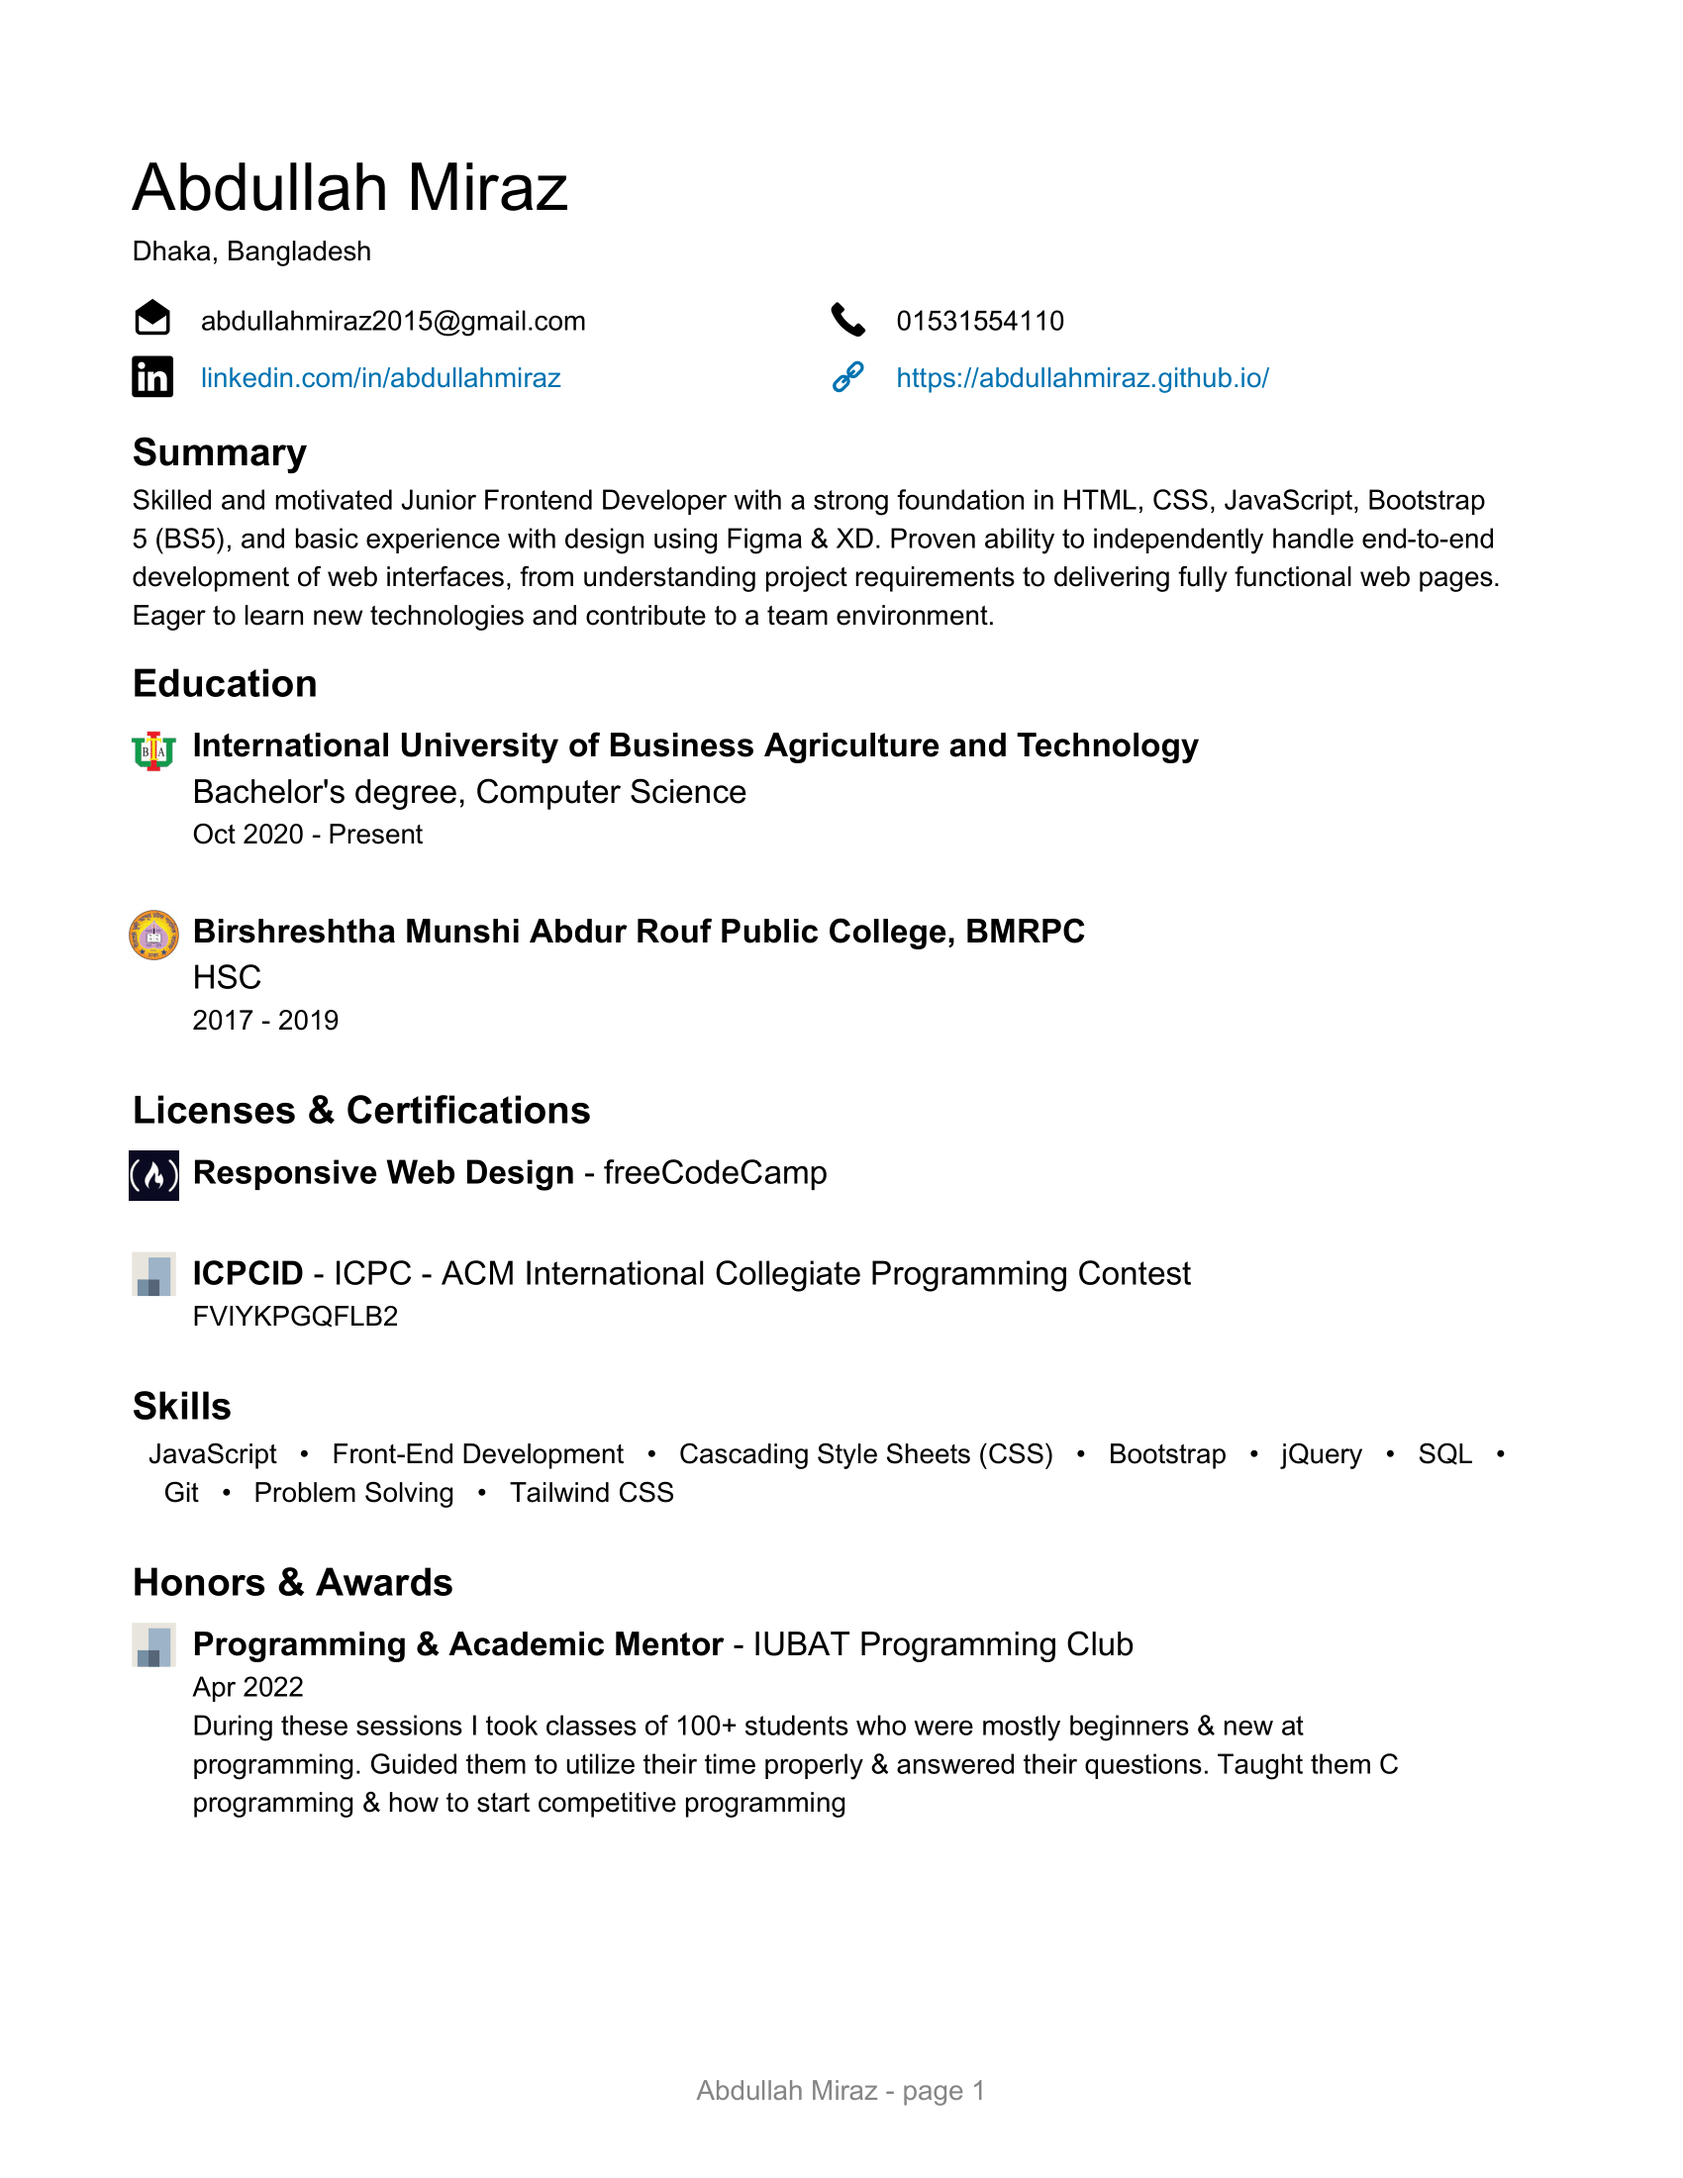
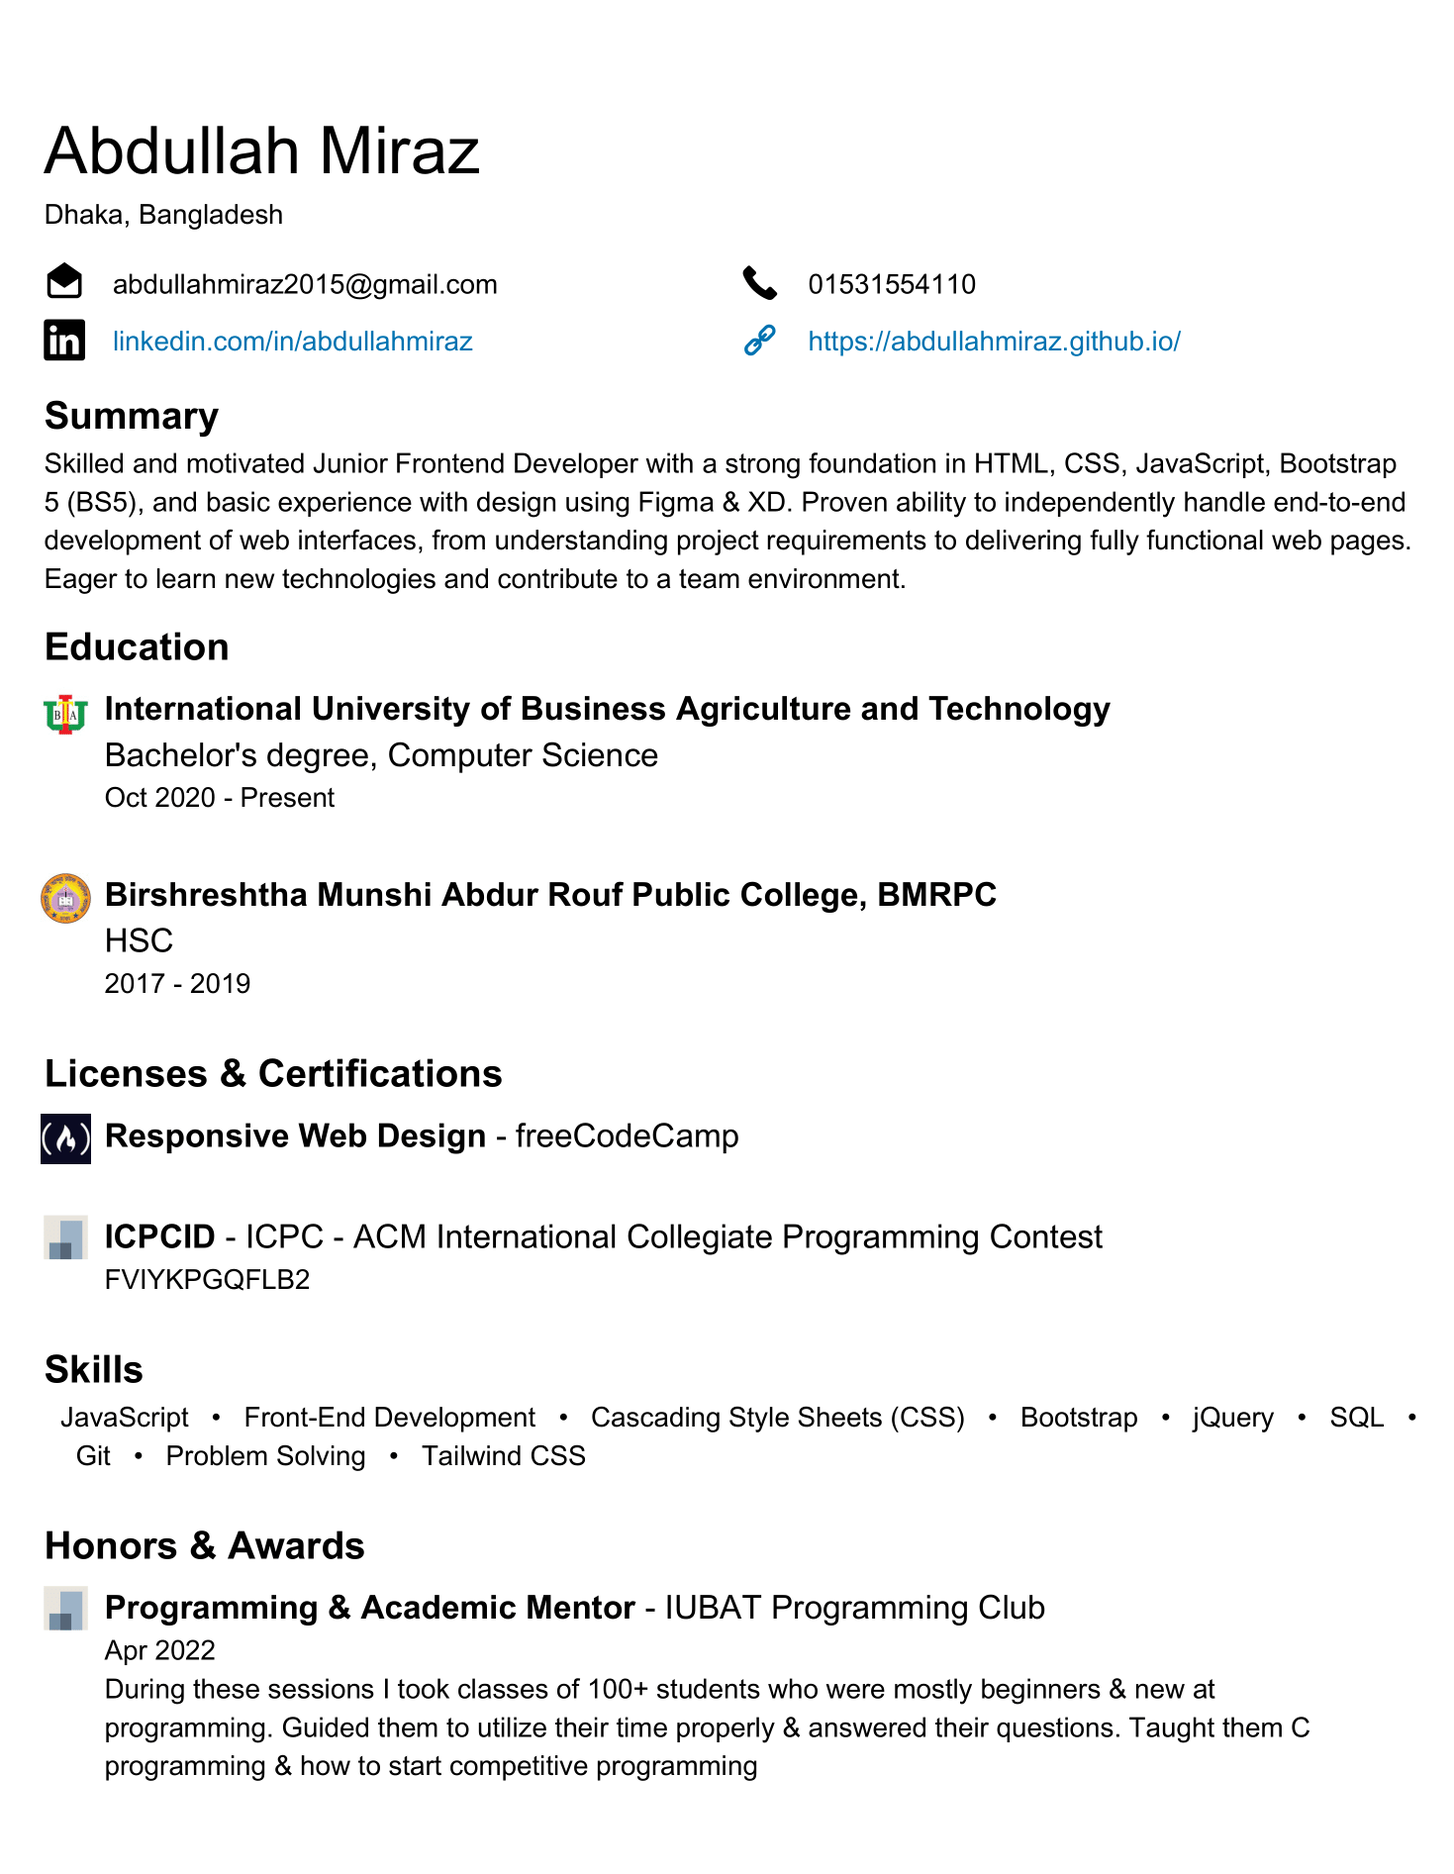
added resume

diff --git a/resume.html b/resume.html
@@ -1,0 +1,61 @@
+<!DOCTYPE html>
+<html lang="en">
+
+<head>
+    <meta charset="UTF-8">
+    <meta http-equiv="X-UA-Compatible" content="IE=edge">
+    <meta name="viewport" content="width=device-width, initial-scale=1.0">
+
+    <title>Abdullah Miraz</title>
+    <!-- bootstrap added here  -->
+    <link rel="stylesheet" href="./style/bootstrap.min.css">
+    <!-- custom css added here  -->
+    <link rel="stylesheet" href="./style/style.css">
+</head>
+
+<body class="">
+
+    <header class="">
+        <nav class="navbar navbar-expand-lg navbar-light bg-light px-4">
+            <a class="navbar-brand" href="./index.html" style="font-weight: 800;">
+                &lt;Miraz/&gt;</a>
+            <button class="navbar-toggler" type="button" data-bs-toggle="collapse" data-bs-target="#navbarNav"
+                aria-controls="navbarNav" aria-expanded="false" aria-label="Toggle navigation">
+                <span class="navbar-toggler-icon"></span>
+            </button>
+            <div class="collapse navbar-collapse" id="navbarNav">
+                <ul class="navbar-nav  ms-auto ">
+                    <li class="nav-item active">
+                        <a class="nav-link active" href="#" target="_blank">Home</a>
+                    </li>
+                    <li class="nav-item">
+                        <a class="nav-link" href="#" target="_blank">Portfolio</a>
+                    </li>
+                    <li class="nav-item">
+                        <a class="nav-link" href="#" target="_blank">About Me</a>
+                    </li>
+                    <li class="nav-item">
+                        <a class="nav-link" href="./gallery.html" target="">Gallery</a>
+                    </li>
+                    <li class="nav-item">
+                        <a class="nav-link" href="./resume.html" target="">Resume</a>
+                    </li>
+                    <li class="nav-item ">
+                        <a class="  btn btn-primary" href="https://miraz-web.blogspot.com/" target="_blank">Blog</a>
+                    </li>
+                </ul>
+            </div>
+        </nav>
+    </header>
+    <main>
+        <div class="text-center my-5">
+            <h1>Resume</h1>
+        </div>
+        <div class="container w-50 mx-auto">
+            <img class="img-fluid" style="box-shadow: 0 4px 8px 0 rgba(0, 0, 0, 0.2), 0 6px 20px 0 rgba(0, 0, 0, 0.19);"
+                src="./images/gallery/abdullah-miraz-resume.png" alt="">
+        </div>
+    </main>
+    <footer>
+        <p class="text-center border-top w-75 mx-auto mt-5 mb-0">abdullahmiraz@2023</p>
+    </footer>

diff --git a/gallery.html b/gallery.html
@@ -37,6 +37,9 @@
                     <li class="nav-item">
                         <a class="nav-link" href="./gallery.html" target="">Gallery</a>
                     </li>
+                    <li class="nav-item">
+                        <a class="nav-link" href="./resume.html" target="">Resume</a>
+                    </li>
                     <li class="nav-item ">
                         <a class="  btn btn-primary" href="https://miraz-web.blogspot.com/" target="_blank">Blog</a>
                     </li>

diff --git a/index.html b/index.html
@@ -37,6 +37,9 @@
                     <li class="nav-item">
                         <a class="nav-link" href="./gallery.html" target="">Gallery</a>
                     </li>
+                    <li class="nav-item">
+                        <a class="nav-link" href="./resume.html" target="">Resume</a>
+                    </li>
                     <li class="nav-item ">
                         <a class="  btn btn-primary" href="https://miraz-web.blogspot.com/" target="_blank">Blog</a>
                     </li>
